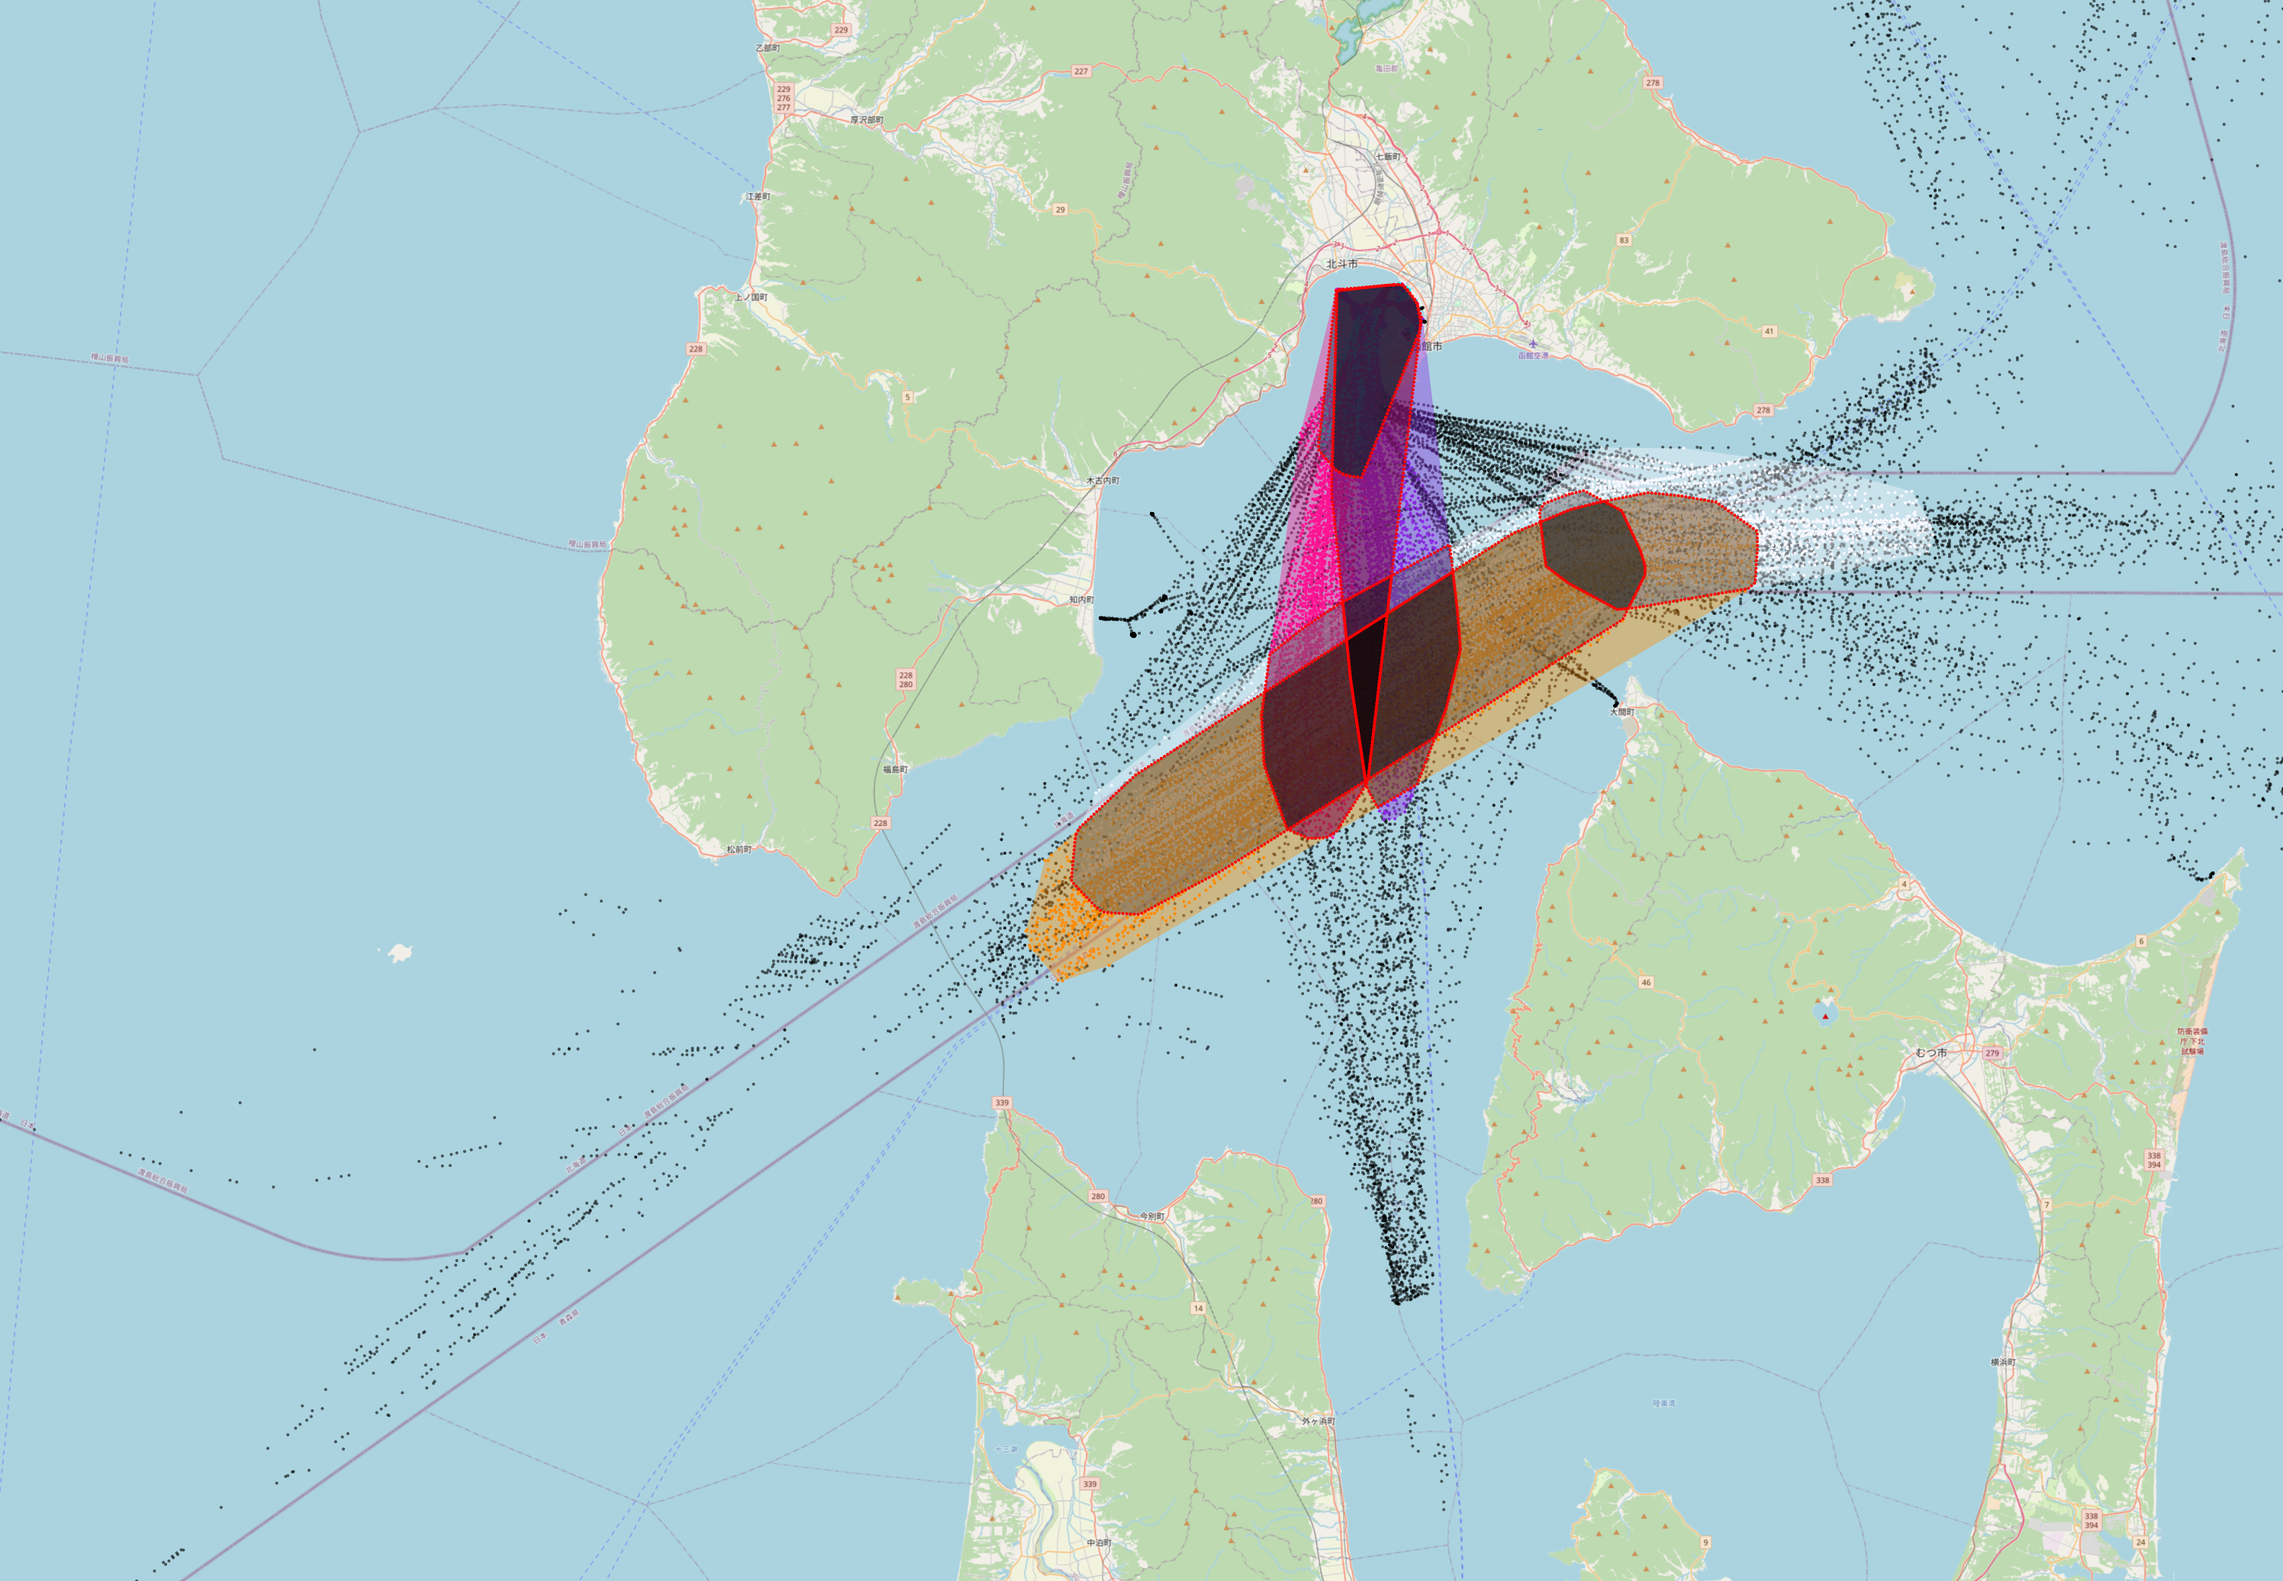
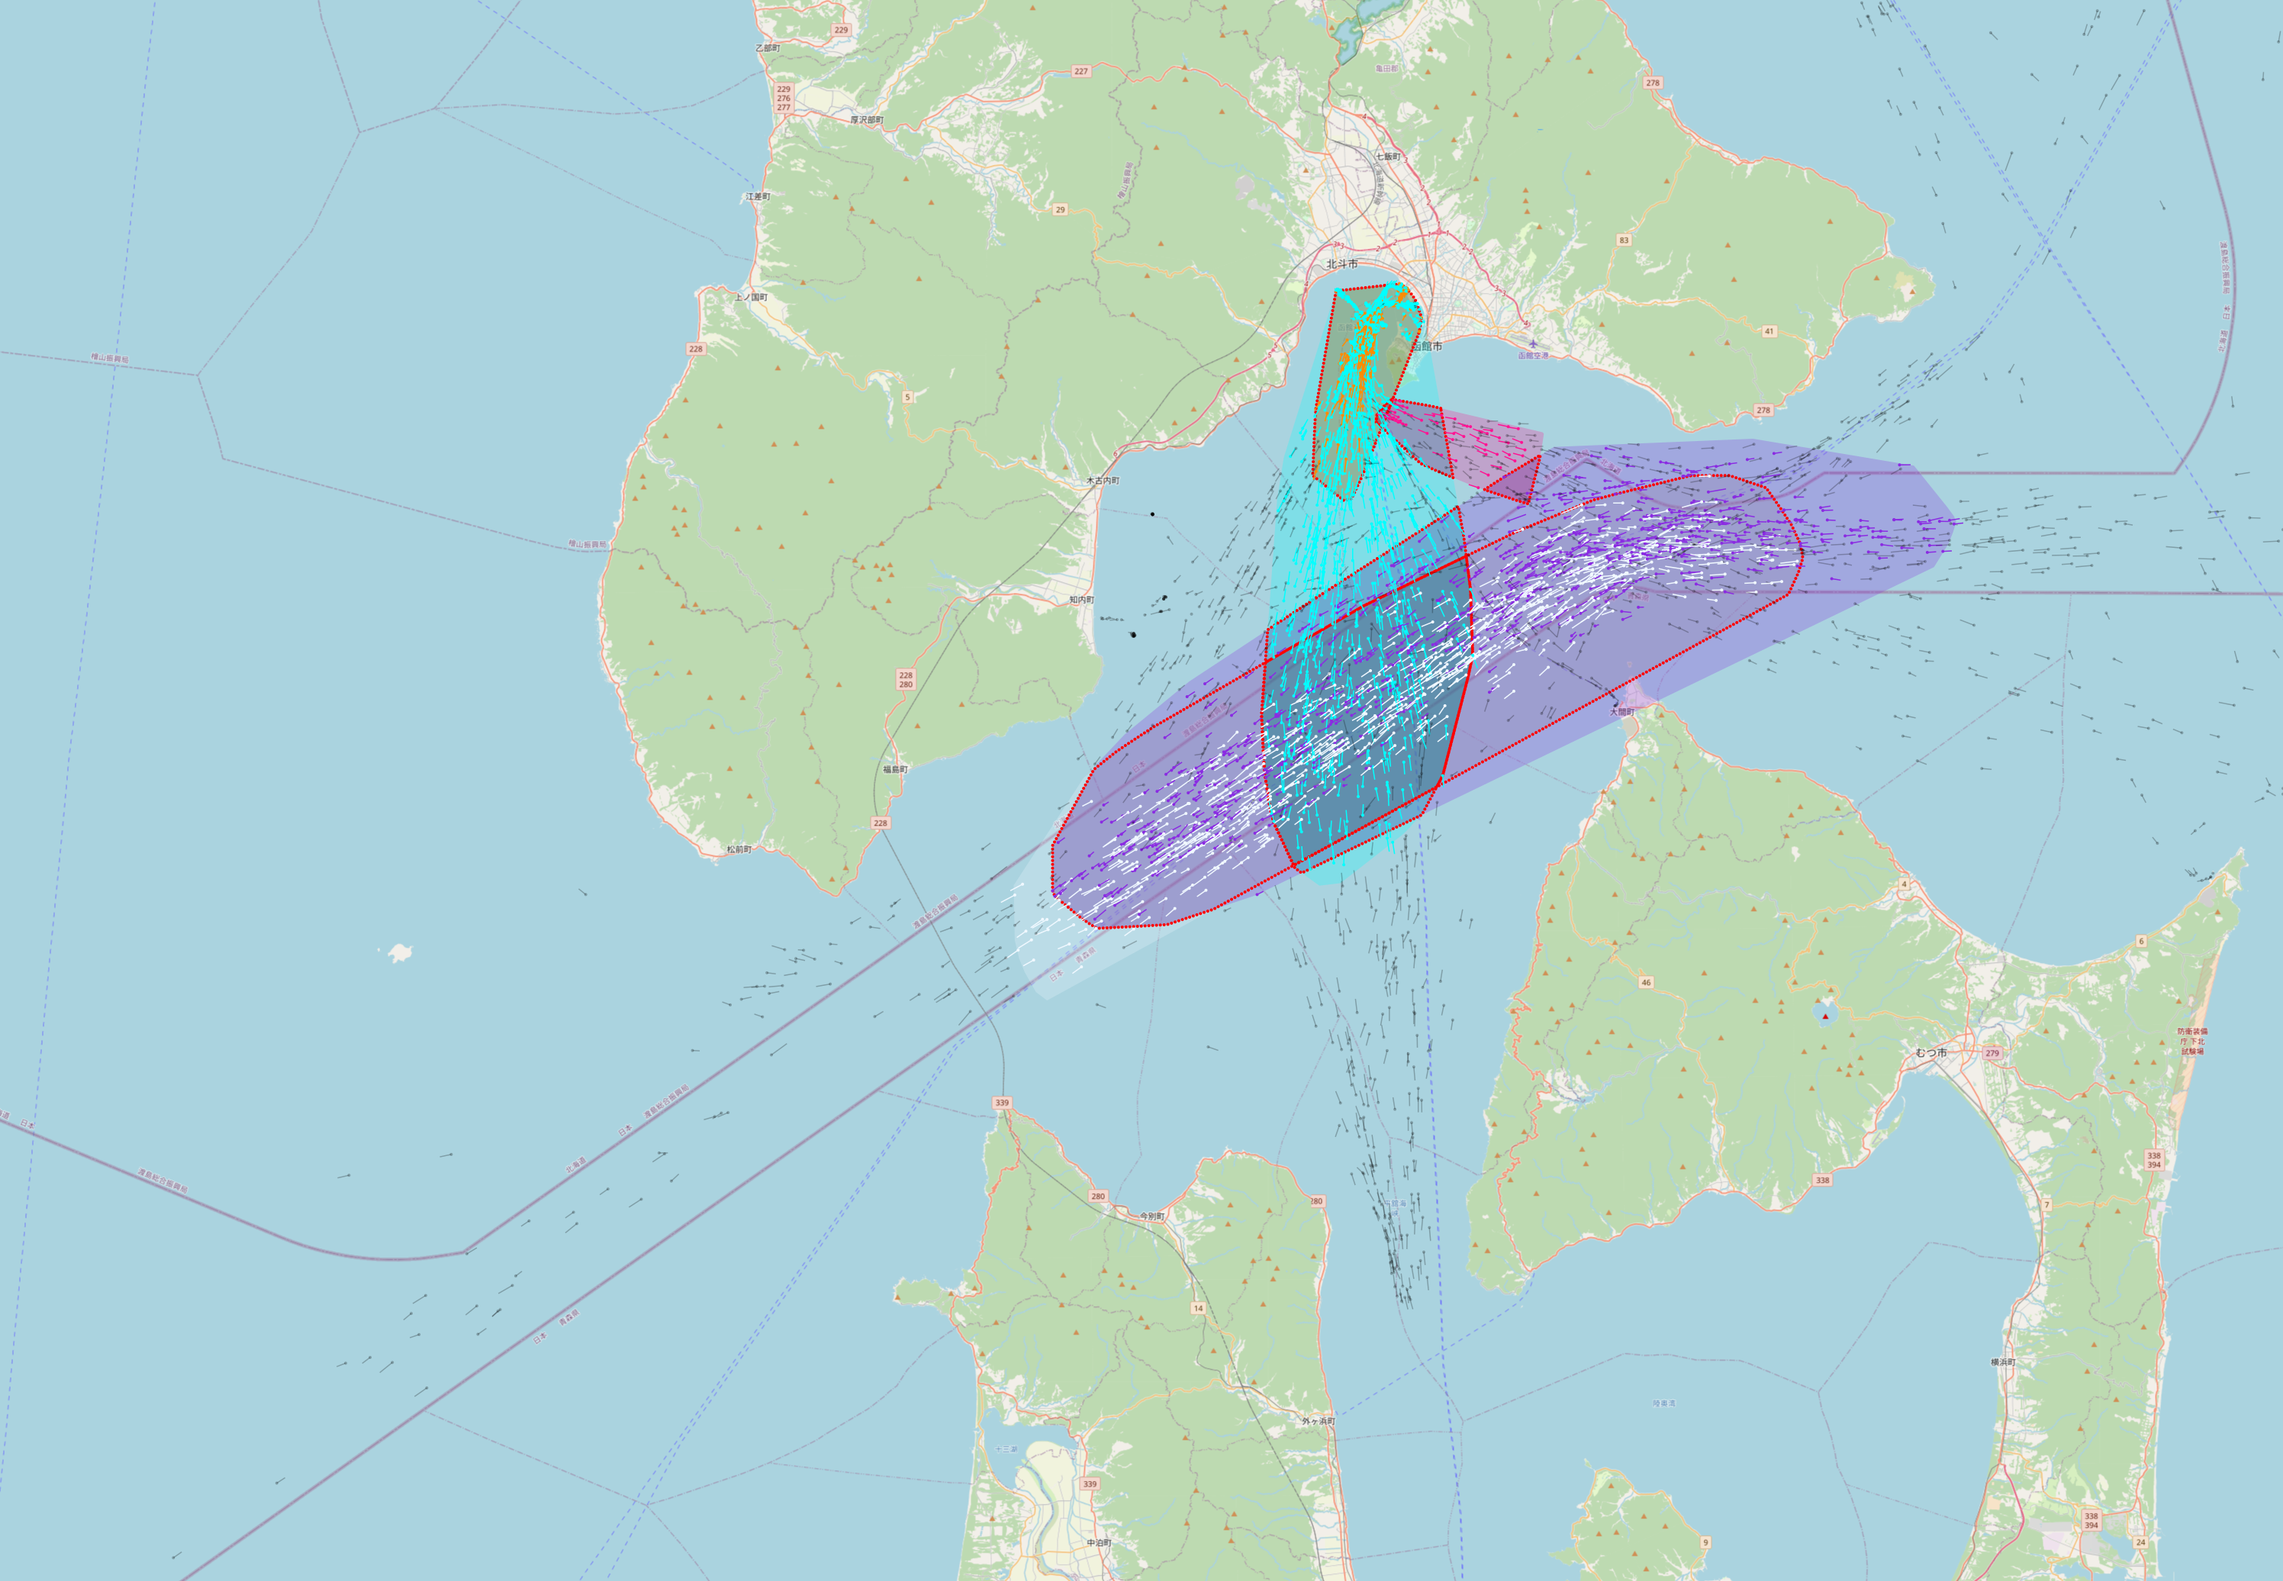
Уменьшено количество отображаемых объектов (рандомно), уменьшена alpha шума, полигонов и их пересечений. Добавлены направления движения. Объекты теперь на переднем плане. Нужно подобрать цвета и определиться, сколько будет достаточно.

diff --git a/CODE/Map/map.py b/CODE/Map/map.py
@@ -55,8 +55,8 @@ class MapBuilder:
         self.intersection_bounds = {}
         self.intersection_bounds_points = {}
 
-    def show_points(self):
-        self.df_points_on_image = pandas.DataFrame(columns=['x', 'y', 'cluster'])
+    def calculate_points_on_image(self):
+        self.df_points_on_image = pandas.DataFrame(columns=['x', 'y', 'speed', 'course', 'cluster'])
 
         # Добавляем объекты с пересчитанными координатами в df_points_on_image
         # gps в web-mercator
@@ -64,25 +64,37 @@ class MapBuilder:
         # переводим x, y в координаты изображения
         self.df_points_on_image.x = [(row[0] - self.left_top[0]) * self.kx for row in xy]
         self.df_points_on_image.y = [(row[1] - self.left_top[1]) * self.ky for row in xy]
+        self.df_points_on_image.speed = self.df.speed
+        self.df_points_on_image.course = self.df.course
         self.df_points_on_image.cluster = self.df.cluster
 
-        for row in self.df_points_on_image.itertuples(index=False):
+    def show_points(self):
+        # Снижаю количество отображаемых точек (надо бы найти какой-то нормальный алгоритм)
+        for row in self.df_points_on_image.sample(frac=0.1).itertuples(index=False):
             r = 0
-            if int(row[2]) == -1:
+            if int(row[4]) == -1:
                 red = colors[-1][0]
                 green = colors[-1][1]
                 blue = colors[-1][2]
-                alpha = 0.6
+                alpha = 0.25
                 r = 2
             else:
-                red = colors[int(row[2]) * color_costyl][0]
-                green = colors[int(row[2]) * color_costyl][1]
-                blue = colors[int(row[2]) * color_costyl][2]
+                red = colors[int(row[4]) * color_costyl][0]
+                green = colors[int(row[4]) * color_costyl][1]
+                blue = colors[int(row[4]) * color_costyl][2]
                 alpha = 1
                 r = 2
             self.context.arc(row[0], row[1], r, 0 * math.pi / 180, 360 * math.pi / 180)
             self.context.set_source_rgba(red, green, blue, alpha)
             self.context.fill()
+
+            # Рисуем линии, отображающие направление, стрелки перегружают картинку, будут просто линии)
+            self.context.set_line_width(1.5)
+            self.context.move_to(row[0], row[1])
+            # Не уверен в какую сторону должно быть направление (+90 / -90), надо уточнить
+            angle = math.radians(row[3] + 90)
+            self.context.line_to(row[0] + row[2] / 10 * math.cos(angle), row[1] + row[2] / 10 * math.sin(angle))
+            self.context.stroke()
 
     def show_polygons(self):
         # Создаем и добавляем полигоны
@@ -100,7 +112,7 @@ class MapBuilder:
                     red = colors[i * color_costyl][0]
                     green = colors[i * color_costyl][1]
                     blue = colors[i * color_costyl][2]
-                    alpha = 0.4
+                    alpha = 0.25
                     self.context.set_source_rgba(red, green, blue, alpha)
                     # Берем последний элемент массива из-за рассинхронизации со счетчиком i
                     for dot in self.polygon_bounds[-1]:
@@ -125,7 +137,7 @@ class MapBuilder:
             red = 0
             green = 0
             blue = 0
-            alpha = 0.3
+            alpha = 0.1
             self.context.set_source_rgba(red, green, blue, alpha)
             for dot in intersection_bound:
                 self.context.line_to(dot[0], dot[1])
@@ -158,10 +170,11 @@ class MapBuilder:
 
     def create_clustered_map(self):
         self.create_empty_map()
-        self.show_points()
+        self.calculate_points_on_image()
         self.show_polygons()
         self.show_intersections()
         self.show_intersection_bounds_points()
+        self.show_points()
         self.save_clustered_image()
 
     def create_empty_map(self):
